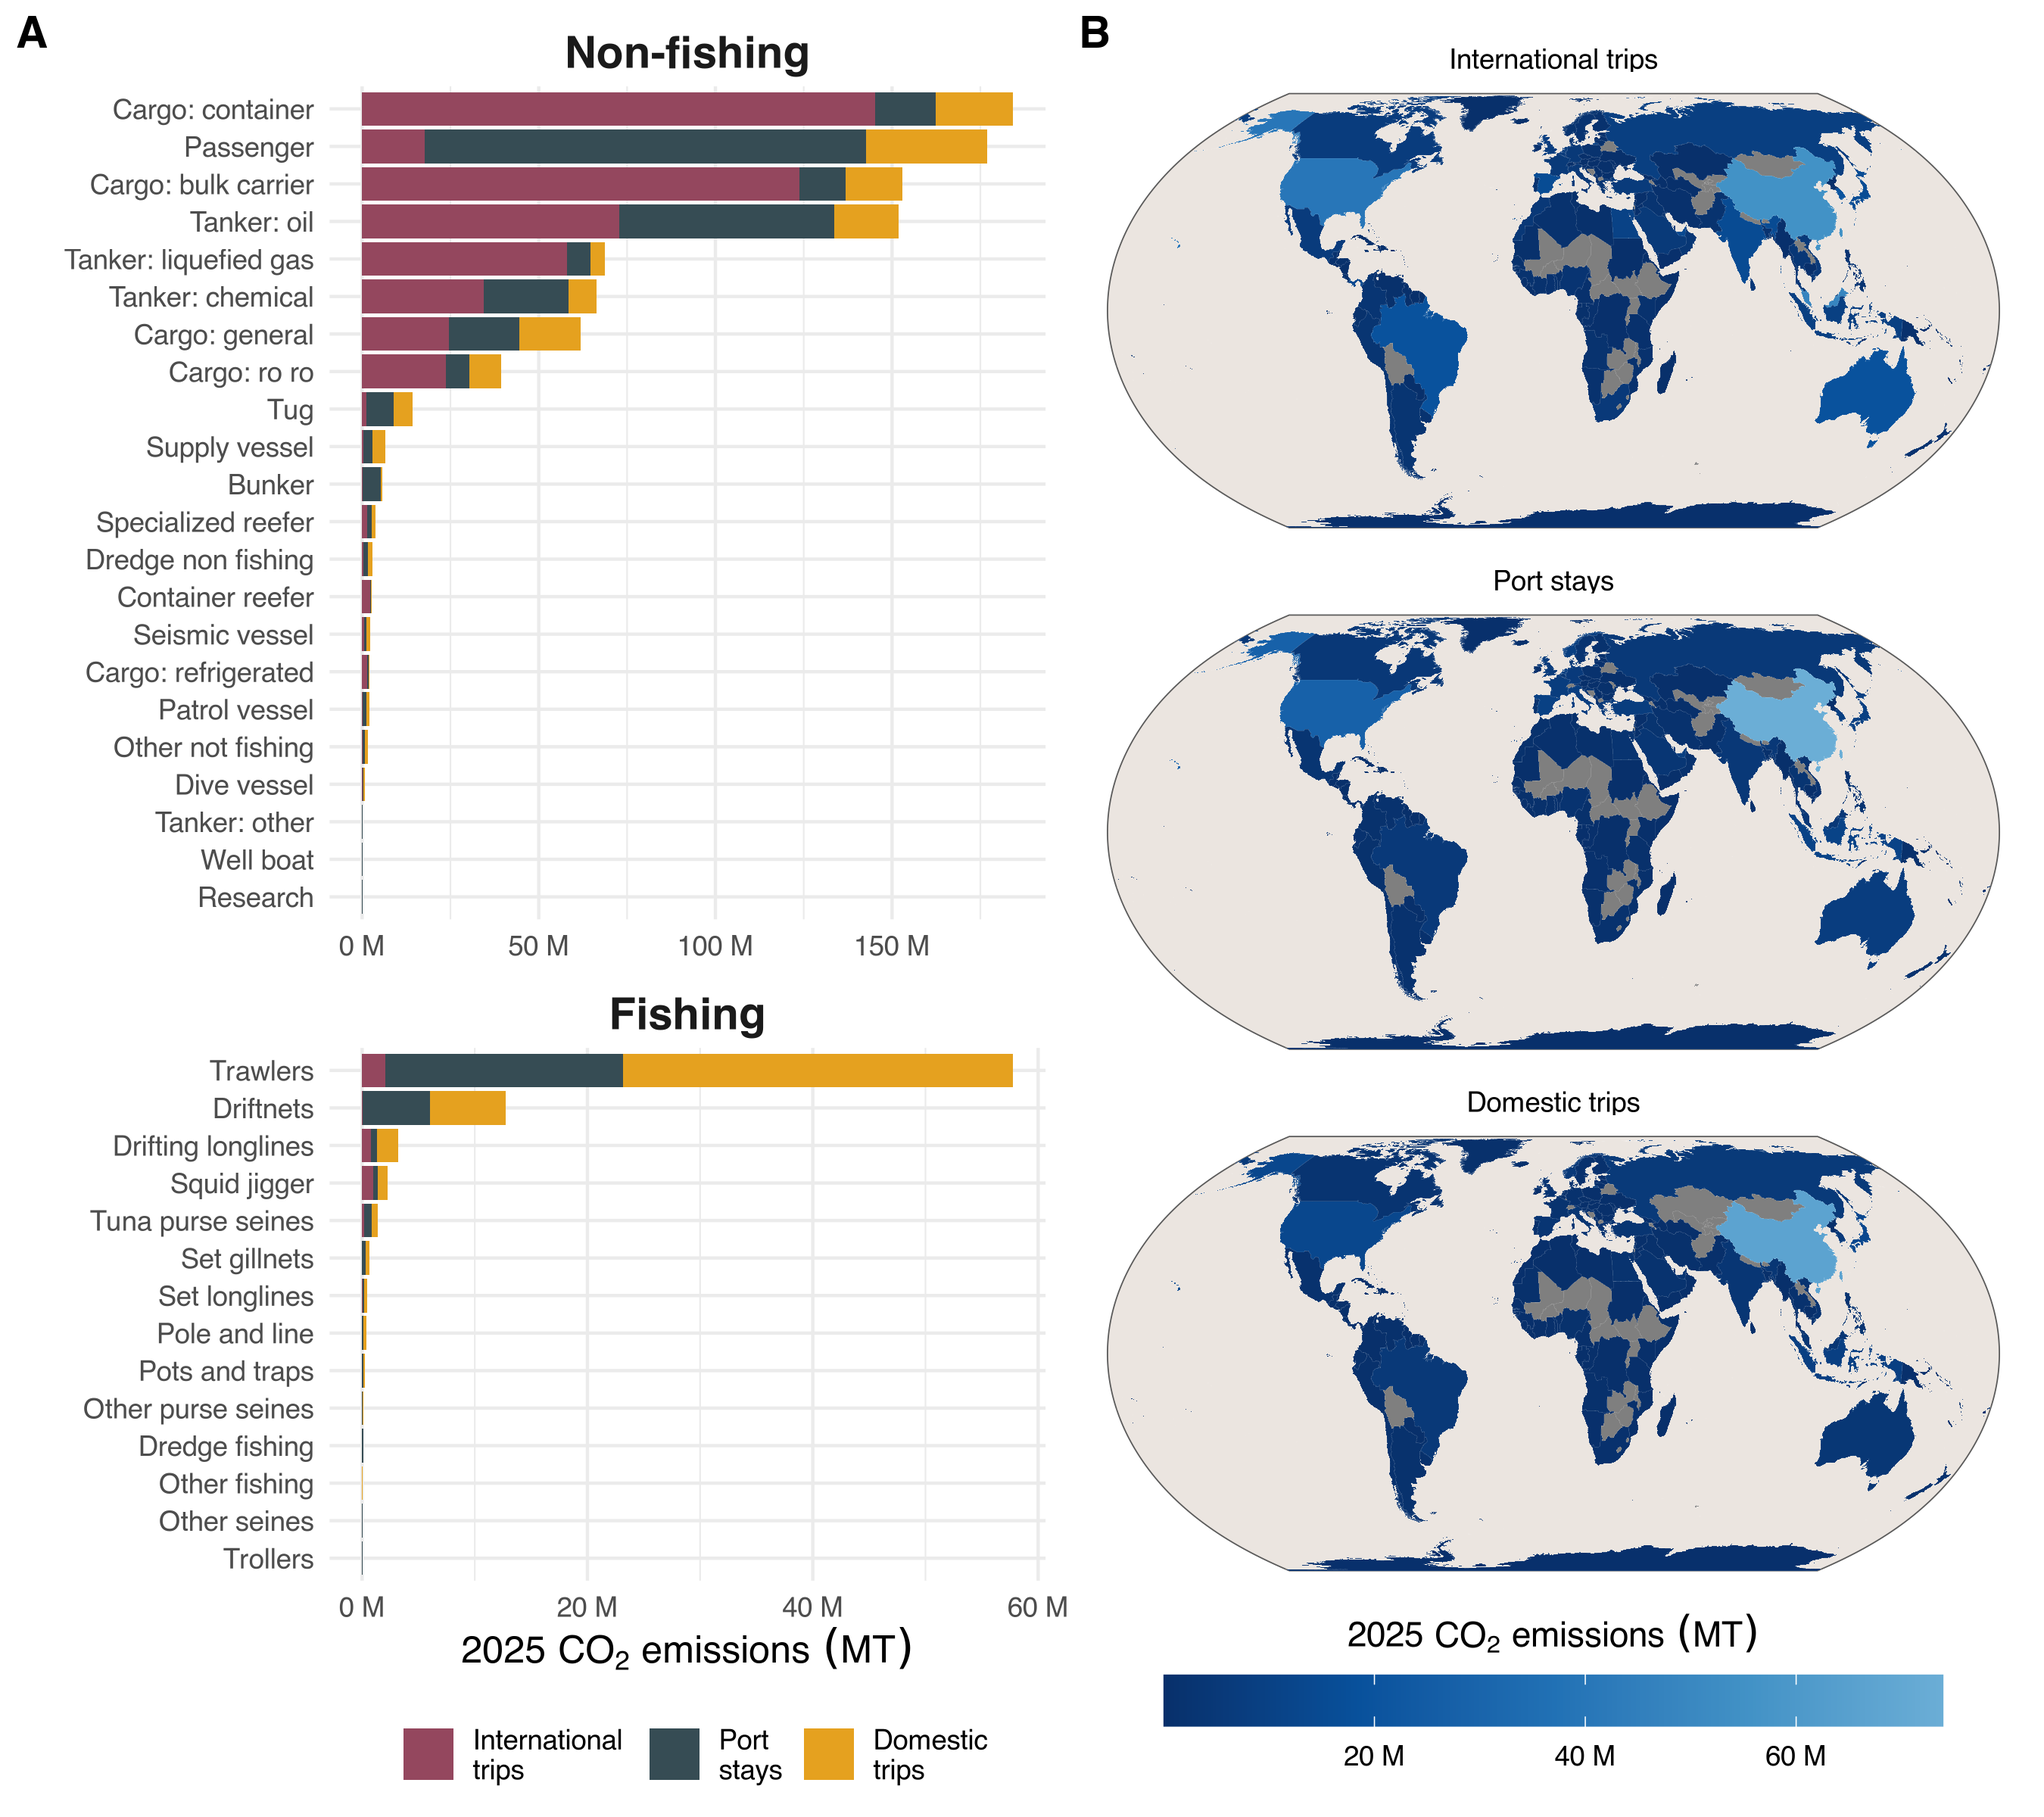
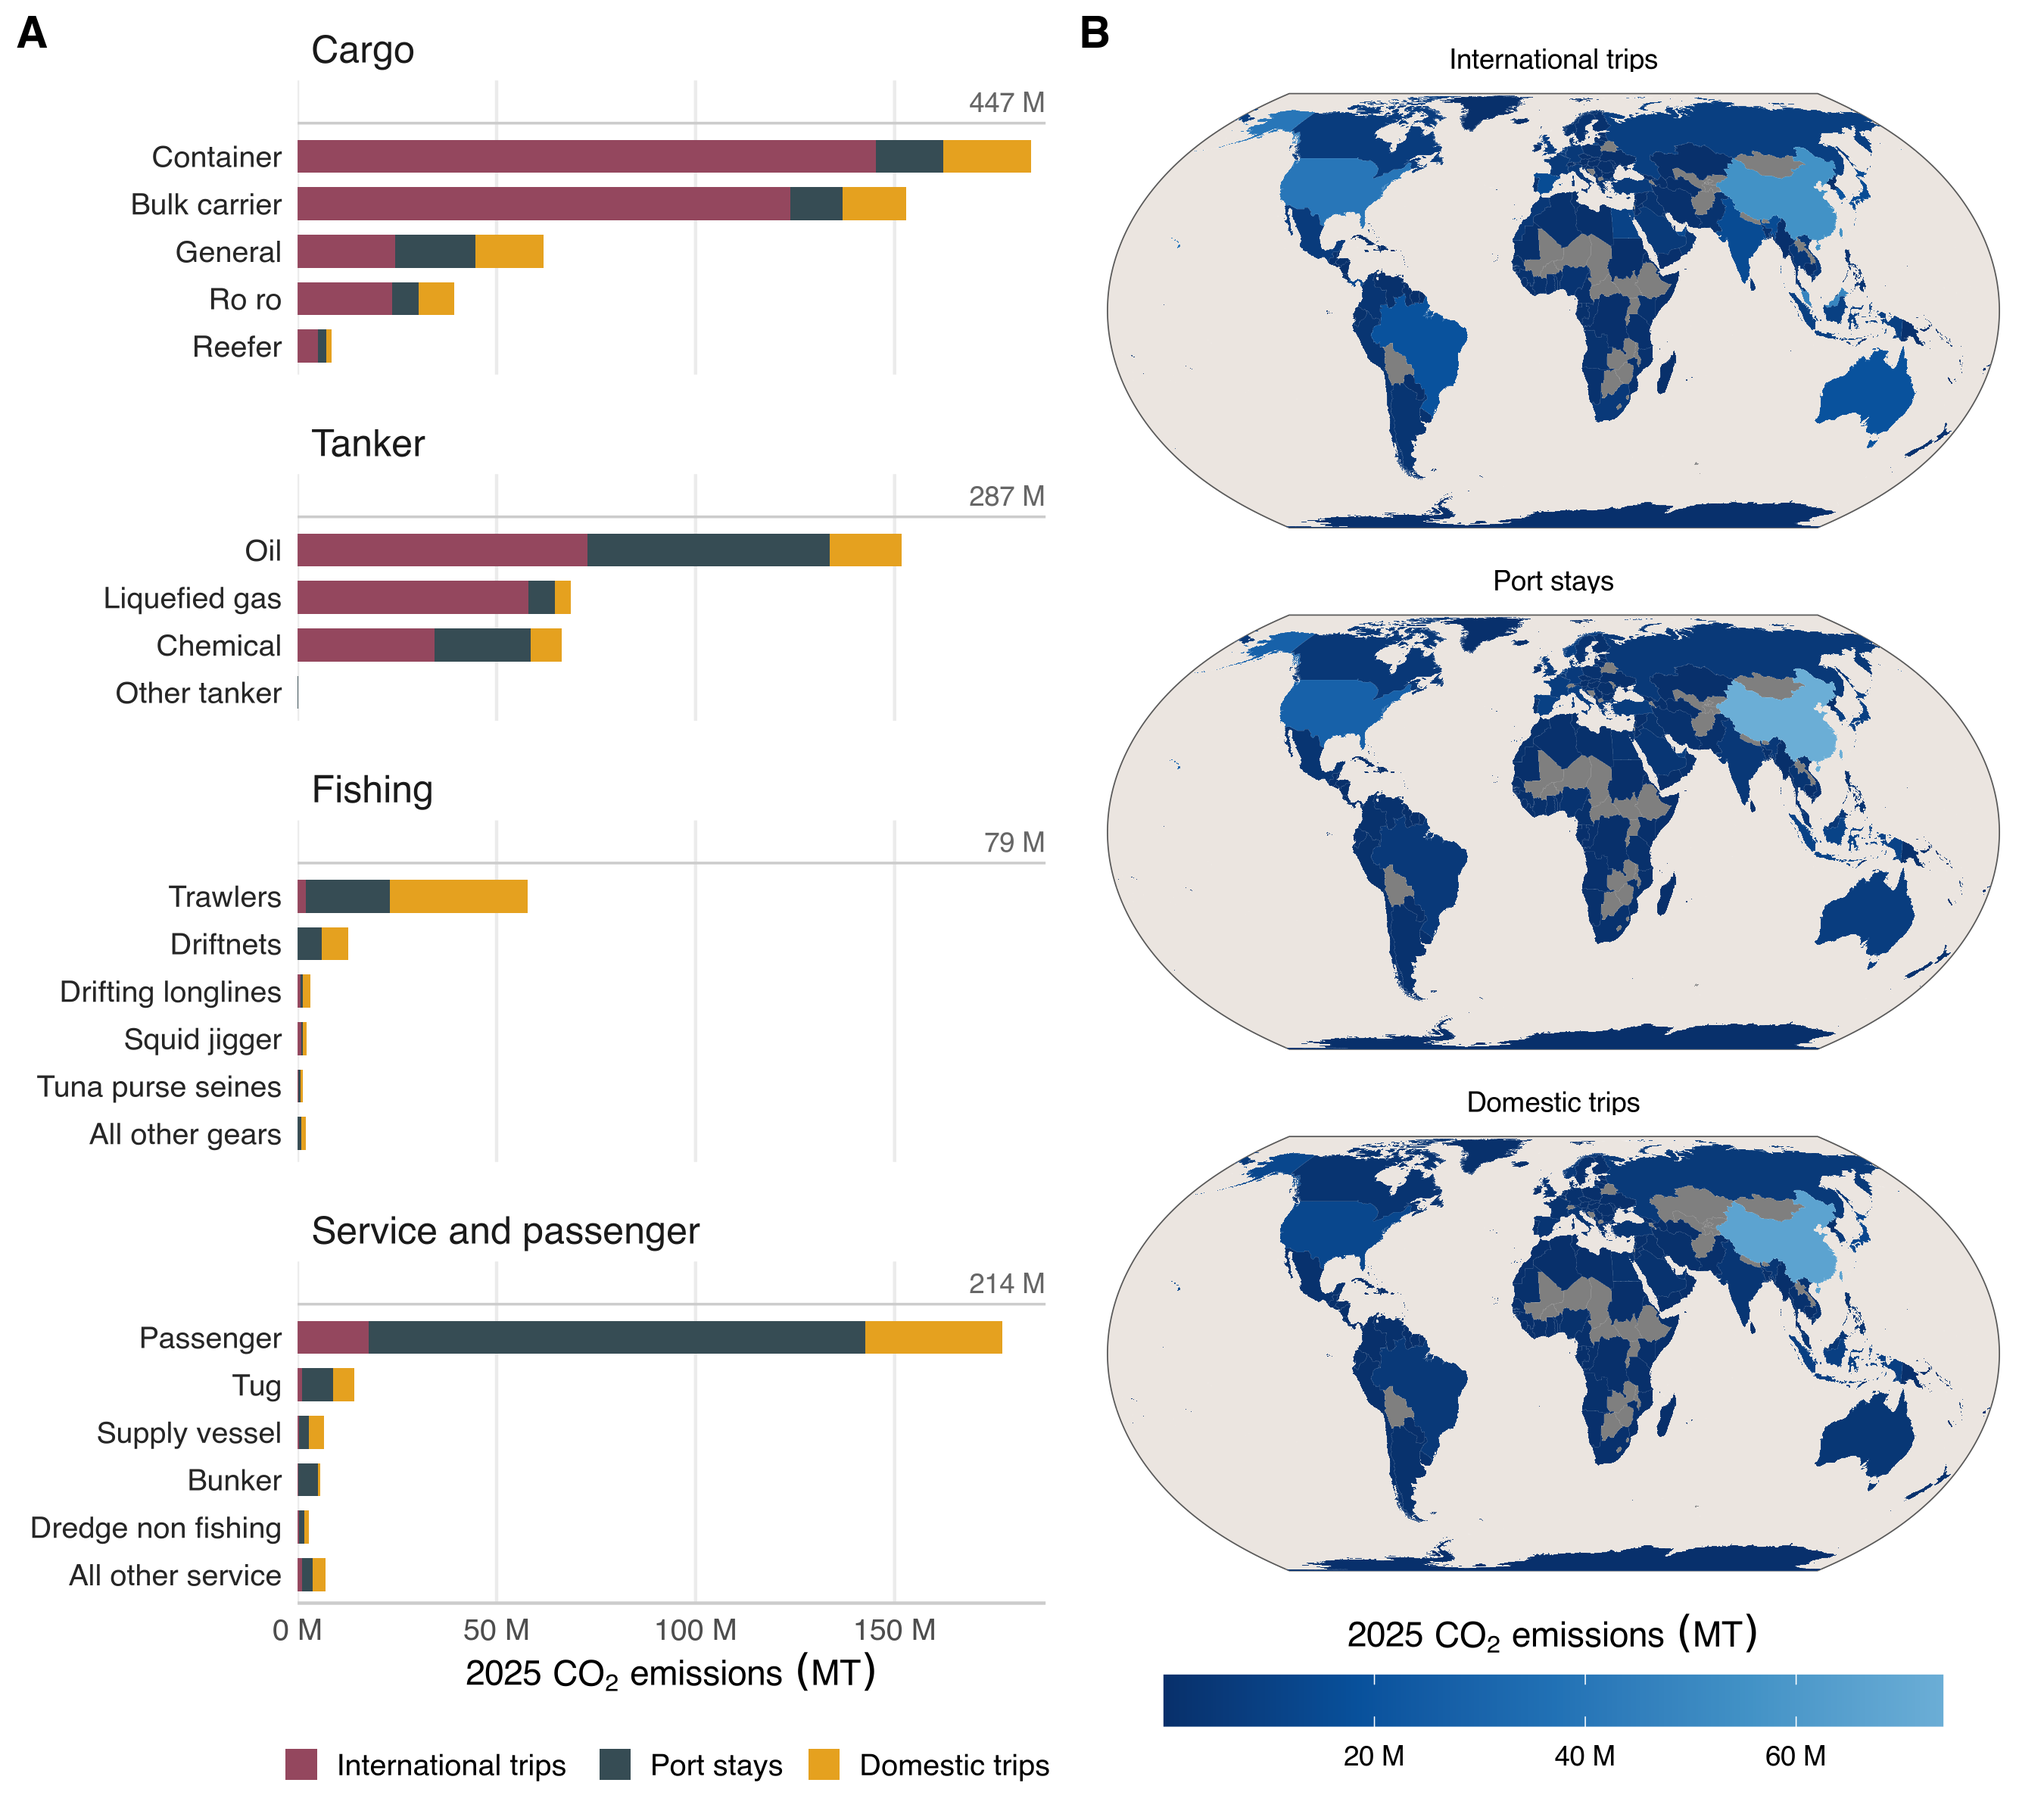
Restructure vessel emissions visualization with hierarchical family grouping and pooled classes

diff --git a/main.tex b/main.tex
@@ -111,7 +111,7 @@ Our vessel-level AIS-broadcasting emissions data provide a detailed understandin
  \begin{figure}[H]
     \centering
     \includegraphics[width=\columnwidth]{figures/fig-ais-data-richness-1.png}
-    \caption{Richness of AIS-broadcasting vessel emissions data, showing: (A) CO$_{2}$ emissions by vessel type for AIS-broadcasting vessels during different activity types (international trips, port stays, and domestic trips), aggregated for activities ending in 2025. (B) CO$_{2}$ emissions by country for AIS-broadcasting vessels during  during different activity types (international trips, port stays, and domestic trips), aggregated for activities ending in 2025. For both panels, emissions for each international trip are partitioned equally to its departure and arrival country). Countries with no values are shown in gray.}
+    \caption{Richness of AIS-broadcasting vessel emissions data, showing: (A) CO$_{2}$ emissions by vessel class for AIS-broadcasting vessels during different activity types (international trips, port stays, and domestic trips), aggregated for activities ending in 2025. Vessel classes are grouped into four families, with the total for each family shown at the top right of its panel; within a family the 5 highest-emitting classes are shown individually and any remaining classes are pooled into a single row. (B) CO$_{2}$ emissions by country for AIS-broadcasting vessels during  during different activity types (international trips, port stays, and domestic trips), aggregated for activities ending in 2025. For both panels, emissions for each international trip are partitioned equally to its departure and arrival country). Countries with no values are shown in gray.}
     \label{fig:fig-ais-data-richness}
 \end{figure}
 
